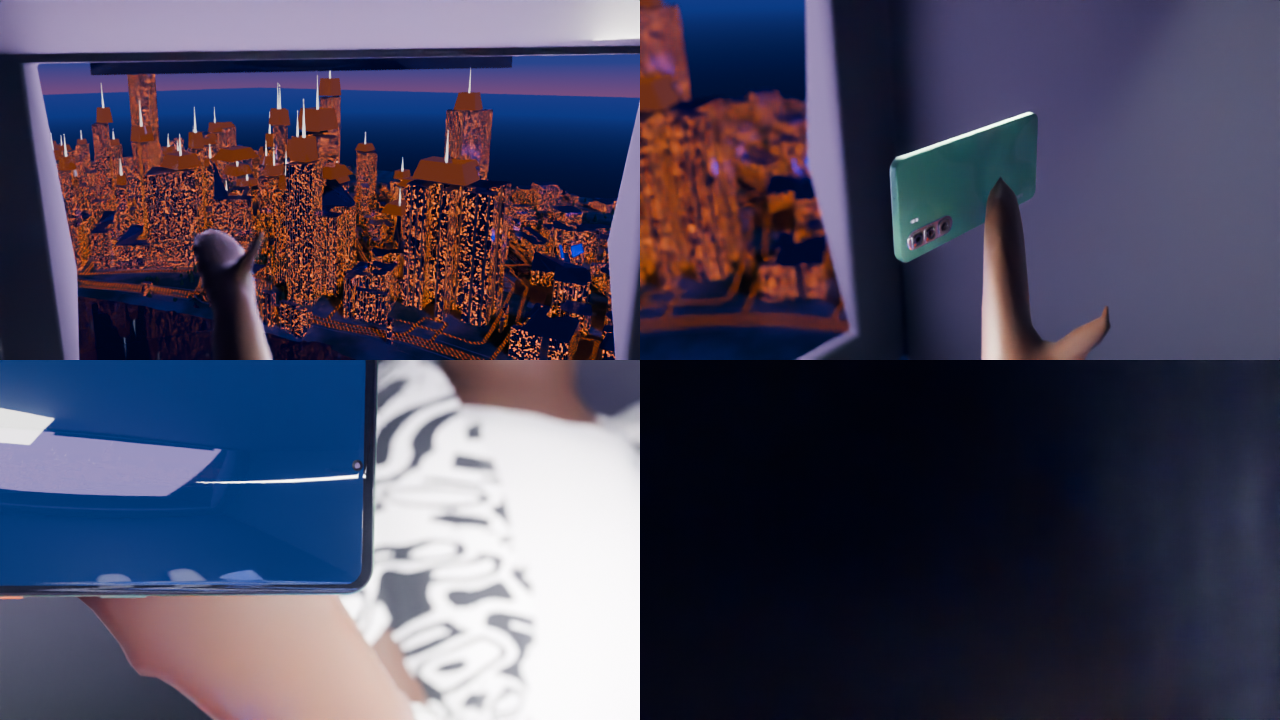
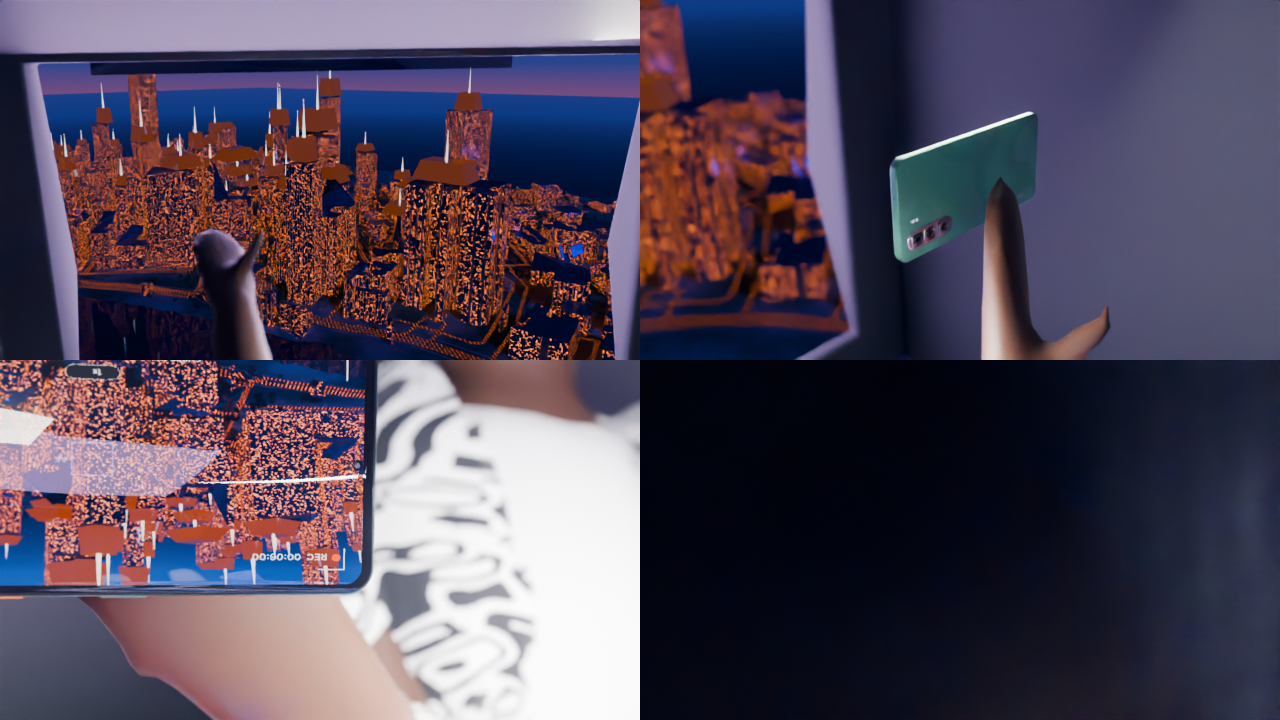
Phone screen upright in the cabin scenes

Changed region(s): [[0.0, 0.4889, 0.3125, 0.825]]

diff --git a/POSTA_2040/scripts/common/scene_lib.py b/POSTA_2040/scripts/common/scene_lib.py
@@ -311,7 +311,7 @@ def import_node_group(blend, name):
     with bpy.data.libraries.load(os.path.join(P.ROOT, 'blender', 'assets', blend), link=False) as (src, dst): dst.node_groups = [name]
     return bpy.data.node_groups[name]
 
-def screen_sequence(mat_name='MAT_PhoneScreen', seq_dir=None, first=1, count=None, offset=0, strength=3.5):
+def screen_sequence(mat_name='MAT_PhoneScreen', seq_dir=None, first=1, count=None, offset=0, strength=3.5, flip=False):
     """Feed an image sequence into the phone screen emission."""
     import glob as _g
     if seq_dir and os.environ.get('POSTA_SCREEN_DIR'): seq_dir = os.environ['POSTA_SCREEN_DIR']
@@ -326,8 +326,11 @@ def screen_sequence(mat_name='MAT_PhoneScreen', seq_dir=None, first=1, count=Non
     if not tex.inputs['Vector'].is_linked:
         tc = nt.nodes.new('ShaderNodeTexCoord'); sep = nt.nodes.new('ShaderNodeSeparateXYZ'); cmb = nt.nodes.new('ShaderNodeCombineXYZ')
         inv = nt.nodes.new('ShaderNodeMath'); inv.operation = 'SUBTRACT'; inv.inputs[0].default_value = 1.0
-        nt.links.new(tc.outputs['Generated'], sep.inputs[0]); nt.links.new(sep.outputs['Y'], inv.inputs[1])
-        nt.links.new(inv.outputs[0], cmb.inputs['X']); nt.links.new(sep.outputs['X'], cmb.inputs['Y'])
+        nt.links.new(tc.outputs['Generated'], sep.inputs[0])
+        if flip:   # phone held the other way round (cabin): rotate the picture 180 degrees so it stays upright to the viewer
+            nt.links.new(sep.outputs['X'], inv.inputs[1]); nt.links.new(sep.outputs['Y'], cmb.inputs['X']); nt.links.new(inv.outputs[0], cmb.inputs['Y'])
+        else:
+            nt.links.new(sep.outputs['Y'], inv.inputs[1]); nt.links.new(inv.outputs[0], cmb.inputs['X']); nt.links.new(sep.outputs['X'], cmb.inputs['Y'])
         nt.links.new(cmb.outputs[0], tex.inputs['Vector'])
     b = next(n for n in nt.nodes if n.type == 'BSDF_PRINCIPLED'); nt.links.new(tex.outputs[0], b.inputs['Emission Color']); b.inputs['Emission Strength'].default_value = strength
     return True

diff --git a/POSTA_2040/scripts/scenes/s10.py b/POSTA_2040/scripts/scenes/s10.py
@@ -12,7 +12,7 @@ def build(scn, quality):
     S.world_bluehour(sun_energy=0.3, strength=0.55)
     S.enable_mist(start=500, depth=3500, color=(0.1, 0.1, 0.2, 1), strength=0.3)
     heli, seat = S.hover_helicopter(F); rig, phone = S.cabin_passenger(seat, F)
-    S.screen_sequence(seq_dir=os.path.join(P.ROOT, 'renders', 's09_ui'), strength=2.6, offset=288)
+    S.screen_sequence(seq_dir=os.path.join(P.ROOT, 'renders', 's09_ui'), strength=2.6, flip=True, offset=288)
     # the hand opens and reaches after the phone
     CA.set_rot(rig, 'upper_arm.R', rx=80, frame=8); CA.set_rot(rig, 'upper_arm.R', rx=95, ry=-10, frame=20); CA.set_rot(rig, 'head', rx=35, frame=24)
     bpy.context.view_layer.update()

diff --git a/POSTA_2040/scripts/scenes/s09b.py b/POSTA_2040/scripts/scenes/s09b.py
@@ -11,7 +11,7 @@ def build(scn, quality):
     S.world_bluehour(sun_energy=0.3, strength=0.55)
     S.enable_mist(start=400, depth=3000, color=(0.1, 0.1, 0.2, 1), strength=0.35)
     heli, seat = S.hover_helicopter(F); rig, phone = S.cabin_passenger(seat, F)
-    S.screen_sequence(seq_dir=os.path.join(P.ROOT, 'renders', 's09_ui'), strength=2.6, offset=168)
+    S.screen_sequence(seq_dir=os.path.join(P.ROOT, 'renders', 's09_ui'), strength=2.6, flip=True, offset=168)
     bpy.context.view_layer.update()
     A = S.seat_cams(seat, rig, phone); inv = seat.matrix_world.inverted()
     to_seat = lambda v: inv @ (phone.matrix_world @ Vector(v))

diff --git a/POSTA_2040/scripts/scenes/s08.py b/POSTA_2040/scripts/scenes/s08.py
@@ -14,7 +14,7 @@ def build(scn, quality):
     S.enable_mist(start=400, depth=3000, color=(0.1, 0.1, 0.2, 1), strength=0.35)
     heli, seat = S.hover_helicopter(F)
     rig, phone = S.cabin_passenger(seat, F)
-    S.screen_sequence(seq_dir=os.path.join(P.ROOT, 'renders', 's09_ui'), strength=2.6)
+    S.screen_sequence(seq_dir=os.path.join(P.ROOT, 'renders', 's09_ui'), strength=2.6, flip=True)
     bpy.context.view_layer.update()
     A = S.seat_cams(seat, rig, phone); Y = Vector((0, 1, 0))
     tgt = P.make_empty('CAM_TARGET', (0, 0, 0)); tgt.parent = seat
